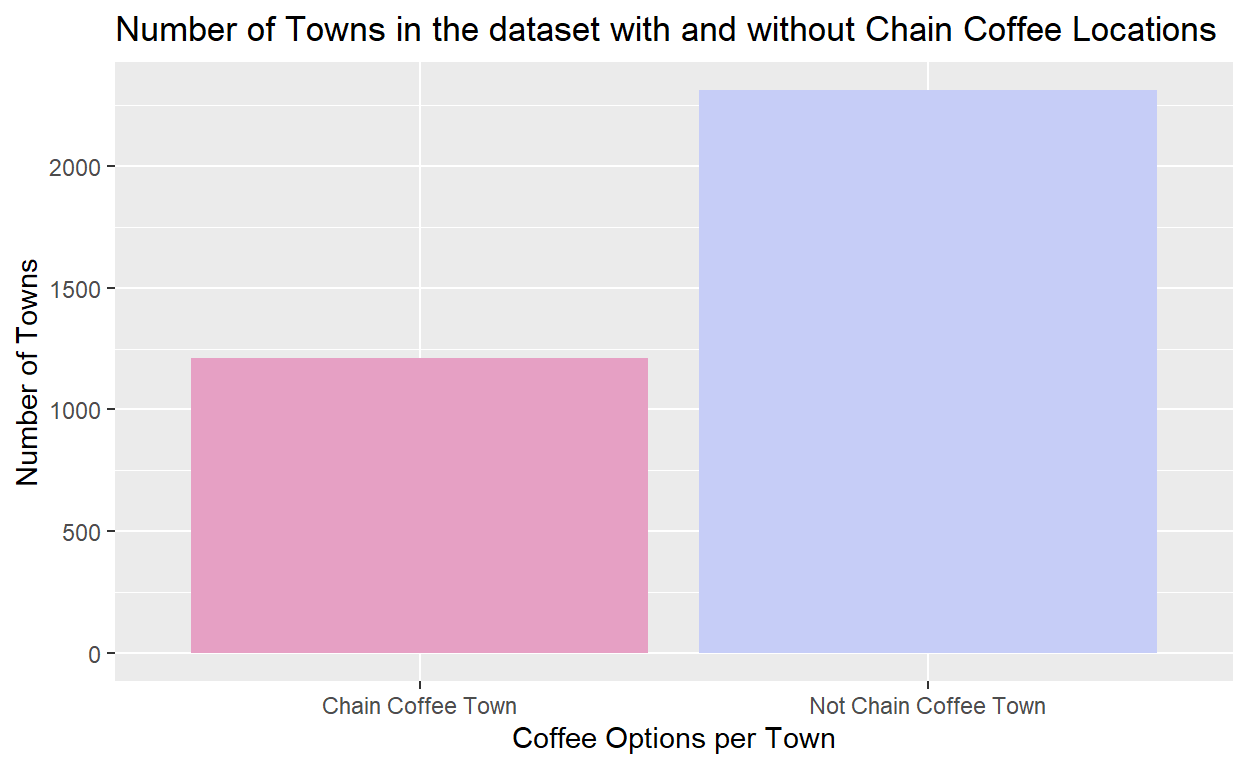
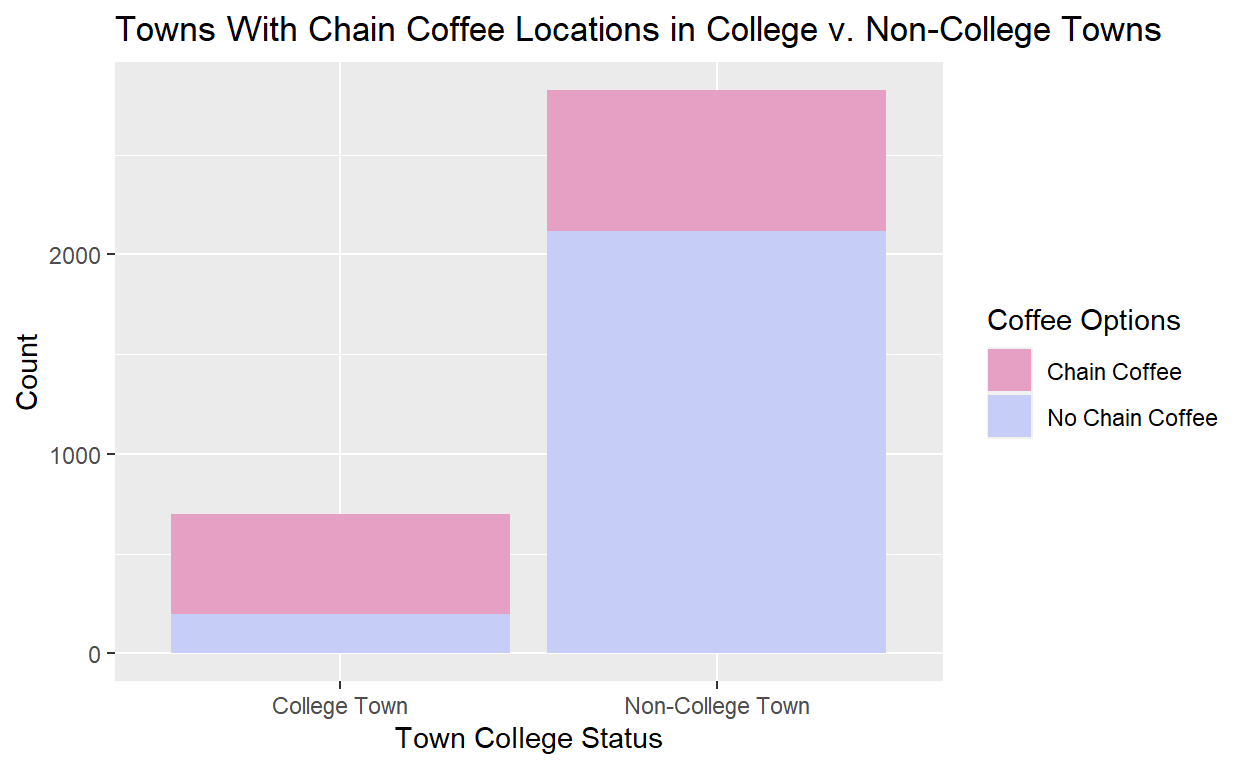
A rough final version

diff --git a/index.html b/index.html
@@ -115,7 +115,7 @@ code span.wa { color: #5e5e5e; font-style: italic; } /* Warning */
   <!--/radix_placeholder_rmarkdown_metadata-->
   
   <script type="text/json" id="radix-resource-manifest">
-  {"type":"character","attributes":{},"value":["index_files/anchor-4.2.2/anchor.min.js","index_files/bowser-1.9.3/bowser.min.js","index_files/distill-2.2.21/template.v2.js","index_files/figure-html5/main variable summary graph-1.png","index_files/figure-html5/unnamed-chunk-11-1.png","index_files/figure-html5/unnamed-chunk-3-1.png","index_files/figure-html5/unnamed-chunk-4-1.png","index_files/figure-html5/unnamed-chunk-5-1.png","index_files/figure-html5/unnamed-chunk-7-1.png","index_files/figure-html5/unnamed-chunk-7-2.png","index_files/figure-html5/unnamed-chunk-8-1.png","index_files/figure-html5/unnamed-chunk-9-1.png","index_files/header-attrs-2.16/header-attrs.js","index_files/header-attrs-2.17/header-attrs.js","index_files/jquery-3.6.0/jquery-3.6.0.js","index_files/jquery-3.6.0/jquery-3.6.0.min.js","index_files/jquery-3.6.0/jquery-3.6.0.min.map","index_files/kePrint-0.0.1/kePrint.js","index_files/lightable-0.0.1/lightable.css","index_files/popper-2.6.0/popper.min.js","index_files/tippy-6.2.7/tippy-bundle.umd.min.js","index_files/tippy-6.2.7/tippy-light-border.css","index_files/tippy-6.2.7/tippy.css","index_files/tippy-6.2.7/tippy.umd.min.js","index_files/webcomponents-2.0.0/webcomponents.js"]}
+  {"type":"character","attributes":{},"value":["index_files/anchor-4.2.2/anchor.min.js","index_files/bowser-1.9.3/bowser.min.js","index_files/distill-2.2.21/template.v2.js","index_files/figure-html5/main variable summary graph-1.png","index_files/figure-html5/summary graph-1.png","index_files/figure-html5/unnamed-chunk-11-1.png","index_files/figure-html5/unnamed-chunk-3-1.png","index_files/figure-html5/unnamed-chunk-4-1.png","index_files/figure-html5/unnamed-chunk-5-1.png","index_files/figure-html5/unnamed-chunk-7-1.png","index_files/figure-html5/unnamed-chunk-7-2.png","index_files/figure-html5/unnamed-chunk-8-1.png","index_files/figure-html5/unnamed-chunk-9-1.png","index_files/header-attrs-2.16/header-attrs.js","index_files/header-attrs-2.17/header-attrs.js","index_files/jquery-3.6.0/jquery-3.6.0.js","index_files/jquery-3.6.0/jquery-3.6.0.min.js","index_files/jquery-3.6.0/jquery-3.6.0.min.map","index_files/kePrint-0.0.1/kePrint.js","index_files/lightable-0.0.1/lightable.css","index_files/popper-2.6.0/popper.min.js","index_files/tippy-6.2.7/tippy-bundle.umd.min.js","index_files/tippy-6.2.7/tippy-light-border.css","index_files/tippy-6.2.7/tippy.css","index_files/tippy-6.2.7/tippy.umd.min.js","index_files/webcomponents-2.0.0/webcomponents.js"]}
   </script>
   <!--radix_placeholder_navigation_in_header-->
   <!--/radix_placeholder_navigation_in_header-->
@@ -1520,11 +1520,11 @@ code span.wa { color: #5e5e5e; font-style: italic; } /* Warning */
 
 <div class="d-article">
 <h2 id="introduction">Introduction</h2>
-<p>Coming to Cambridge this fall, I had lots of things on my mind. Class choices, new roommates, new friends, and (perhaps more importantly) coffee. As I learned soon after arriving, coffee is not hard to find in Cambridge. This project is an effort to explore where coffee locations are located in the United States and why. After exploring my data with more depth, I realized that it would be ineffective and misleading to attempt to analyze all coffee shops based on the provided data. As a result, this project focuses on the chain coffee franchises Dunkin’ Donuts and Starbucks. My primary research question was inspired by the sheer prevalence of coffee in Cambridge and asks: is there a correlation between these chain coffee locations and whether or not the city it is located in is a college town?</p>
+<p>Coming to Cambridge this fall, I had lots of things on my mind. Class choices, new roommates, new friends, and (perhaps more importantly) coffee. As I learned soon after arriving, coffee is not hard to find in Cambridge. This project is an effort to explore where coffee locations are located in the United States and why. After exploring my data with more depth, I realized that it would be ineffective and misleading to attempt to analyze all coffee shops based on the provided data. As a result, this project focuses on the chain coffee franchises Dunkin’ Donuts and Starbucks. My primary research question was inspired by the sheer prevalence of coffee in Cambridge and asks: is there a relationship between these chain coffee locations and whether or not the city it is located in is a college town? My hypothesis is that there is a relationship between college towns and chain coffee locations. The null hypothesis would be that there is no relationship and that the variables are independent of each other.</p>
 <h2 id="the-data">The Data</h2>
-<p>My original data was taken from Friendly Cities on GitHub and includes 800,000 restaurants throughout the United States. The dataset included the variables: RestaurantName, Cuisine, OpenHours, State, CNTY_GEOID, UA_NAME, MSA_NAME, MSA_GEOID, Lon, Lat, Frequency, and isChain. This dataset was originally used to find correlation between chain restaurants and a number of independent variables, so this project goes in another direction. The primary variables I focused on included RestaurantName, which provided the name of the restaurant, UA_NAME, which is short for Urban Area name and was typically formatted as the city and state where the restaurant was located, and lastly the State variable, which provided the state abbreviation for the state the restaurant was located in.</p>
-<p>As the dataset originally stood, I did not have enough data to explore my research question. I created a new tibble labeled college_towns which includes the name of every town in the United States that has a four-year higher education institution located within it. This tibble was compiled using information provided on Campus Explorer and then used to create the variable college_town within the dataset; a 1 marks that the town has a four year higher education institution and a 0 if else. I also created my dependent variable by creating a unique ID per city, which I used to create the variable is_coffee in my data. The column is marked with a 1 if the town has a chain and a 0 if not.</p>
-<p>The rest of my variables were created as possible confounders that could provide alternative reasoning. The next two variables I added to the dataset were based on location and are called region and division. These variables were created in reference to the regions and divisions assigned to states by the United States Census Bureau. My final variable is called is_pop and marks whether or not a city was in the top 5 most populated cities within it’s respective state (1 if yes, 0 if no). This variable was created with Census Bureau data, specifically the April 2021 population estimate.</p>
+<p>My original data was taken from Friendly Cities on GitHub and includes over 700,000 restaurants throughout the United States. The dataset included the variables: RestaurantName, Cuisine, OpenHours, State, CNTY_GEOID, UA_NAME, MSA_NAME, MSA_GEOID, Lon, Lat, Frequency, and isChain. This dataset was originally used to find correlation between chain restaurants and a number of independent variables, so this project goes in another direction. The primary variables I focused on included RestaurantName, which provided the name of the restaurant, UA_NAME, which is short for Urban Area name and was typically formatted as the city and state where the restaurant was located, and lastly the State variable, which provided the state abbreviation for the state the restaurant was located in.</p>
+<p>As the dataset originally stood, I did not have enough data to explore my research question. I created a new tibble labeled college_towns which includes the name of every town in the United States that has a four-year higher education institution located within it. This tibble was compiled using information provided on Campus Explorer and then used to create the variable college_town within the dataset; a 1 marks that the town has a four year higher education institution and a 0 if else. I also created my dependent variable by creating a unique ID per city, which I used to create the variable is_coffee in my data. The column is marked with a 1 if the town has a Dunkin’ Donuts or Starbucks and a 0 if not.</p>
+<p>The rest of my variables were created as possible confounders that could provide alternative reasoning for any relationship found between college towns and chain coffee locations. The next two variables I added to the dataset were based on location and are called region and division. These variables were created in reference to the regions and divisions assigned to states by the United States Census Bureau. My final variable is called is_pop and marks whether or not a city was in the top 5 most populated cities within it’s respective state (1 if yes, 0 if no). This variable was created with Census Bureau data, specifically the April 2021 population estimate.</p>
 <p>The dependent variable in my study is whether or not a town has a chain coffee location, in this study referring to a Dunkin’ Donuts or a Starbucks. My study is cross-sectional, as the data is observational, meaning that I did not assign the value for college_town, which is my primary variable of interest. Additionally, my data was collected at a single point in time and thus does not fill the criteria for a before-after or differences in differences study.</p>
 <div class="layout-chunk" data-layout="l-body">
 <div class="sourceCode">
@@ -1605,44 +1605,29 @@ code span.wa { color: #5e5e5e; font-style: italic; } /* Warning */
 <div class="layout-chunk" data-layout="l-body">
 <div class="sourceCode">
 <pre class="sourceCode r"><code class="sourceCode r"><span><span class='va'>data3</span> <span class='op'>|&gt;</span></span>
-<span>  <span class='fu'><a href='https://dplyr.tidyverse.org/reference/mutate.html'>mutate</a></span><span class='op'>(</span>is_coffee_new <span class='op'>=</span> <span class='fu'><a href='https://dplyr.tidyverse.org/reference/if_else.html'>if_else</a></span><span class='op'>(</span><span class='va'>is_coffee</span> <span class='op'>==</span> <span class='fl'>1</span>, <span class='st'>"Chain Coffee Town"</span>, <span class='st'>"Not Chain Coffee Town"</span><span class='op'>)</span><span class='op'>)</span> <span class='op'>|&gt;</span></span>
+<span>  <span class='fu'><a href='https://dplyr.tidyverse.org/reference/mutate.html'>mutate</a></span><span class='op'>(</span>is_coffee_new <span class='op'>=</span> <span class='fu'><a href='https://dplyr.tidyverse.org/reference/if_else.html'>if_else</a></span><span class='op'>(</span><span class='va'>is_coffee</span> <span class='op'>==</span> <span class='fl'>1</span>, <span class='st'>"With Chain Coffee"</span>, <span class='st'>"Without Chain Coffee"</span><span class='op'>)</span><span class='op'>)</span> <span class='op'>|&gt;</span></span>
 <span>  <span class='fu'><a href='https://ggplot2.tidyverse.org/reference/ggplot.html'>ggplot</a></span><span class='op'>(</span><span class='fu'><a href='https://ggplot2.tidyverse.org/reference/aes.html'>aes</a></span><span class='op'>(</span>x <span class='op'>=</span> <span class='va'>is_coffee_new</span>, fill <span class='op'>=</span> <span class='va'>is_coffee_new</span><span class='op'>)</span><span class='op'>)</span> <span class='op'>+</span></span>
 <span>  <span class='fu'><a href='https://ggplot2.tidyverse.org/reference/geom_bar.html'>geom_bar</a></span><span class='op'>(</span><span class='op'>)</span> <span class='op'>+</span></span>
 <span>  <span class='fu'><a href='https://ggplot2.tidyverse.org/reference/scale_manual.html'>scale_fill_manual</a></span><span class='op'>(</span>values <span class='op'>=</span> <span class='fu'><a href='https://rdrr.io/pkg/wesanderson/man/wes_palette.html'>wes_palette</a></span><span class='op'>(</span><span class='st'>"GrandBudapest2"</span>, n <span class='op'>=</span> <span class='fl'>2</span><span class='op'>)</span><span class='op'>)</span> <span class='op'>+</span></span>
-<span>  <span class='fu'><a href='https://ggplot2.tidyverse.org/reference/labs.html'>labs</a></span><span class='op'>(</span>x <span class='op'>=</span> <span class='st'>"Coffee Options per Town"</span>, y <span class='op'>=</span> <span class='st'>"Number of Towns"</span>, title <span class='op'>=</span> <span class='st'>"Number of Towns in the dataset with and without Chain Coffee Locations"</span><span class='op'>)</span> <span class='op'>+</span></span>
+<span>  <span class='fu'><a href='https://ggplot2.tidyverse.org/reference/labs.html'>labs</a></span><span class='op'>(</span>x <span class='op'>=</span> <span class='st'>"Coffee Options"</span>, y <span class='op'>=</span> <span class='st'>"Number of Towns"</span>, title <span class='op'>=</span> <span class='st'>"Number of Towns With and Without Chain Coffee Locations"</span><span class='op'>)</span> <span class='op'>+</span></span>
 <span>  <span class='fu'><a href='https://ggplot2.tidyverse.org/reference/theme.html'>theme</a></span><span class='op'>(</span>legend.position <span class='op'>=</span> <span class='st'>"none"</span><span class='op'>)</span></span></code></pre>
 </div>
-<p><img src="index_files/figure-html5/unnamed-chunk-3-1.png" width="624" /></p>
+<p><img src="index_files/figure-html5/summary%20graph-1.png" width="624" /></p>
 </div>
-<p>My dependent variable for this project is whether or not a town has a chain coffee location which in this project is defined as either a Dunkin’ Donuts or a Starbucks. I will further discuss the reasoning for this in my conclusion. As can be seen in the graph above, the dataset includes restaurant data from over 3,000 cities throughout the United States. We can see that there are more cities in the data without chain coffee locations than with them.</p>
+<p>My dependent variable for this project is whether or not a town has a chain coffee location which in this project is defined as either a Dunkin’ Donuts or a Starbucks. As can be seen in the graph above, the dataset includes restaurant data from over 3,000 cities throughout the United States. We can see that there are more cities in the data without chain coffee locations than with them.</p>
 <h2 id="results">Results</h2>
 <h1 id="main-variable-regression">Main Variable Regression</h1>
 <p>My primary independent variable of interest was the college town variable. The following regression table displays the details for a regression equation involving only that variable.</p>
 <div class="layout-chunk" data-layout="l-body">
 <div class="sourceCode">
 <pre class="sourceCode r"><code class="sourceCode r"><span><span class='va'>singregression</span> <span class='op'>&lt;-</span> <span class='fu'><a href='https://rdrr.io/r/stats/lm.html'>lm</a></span><span class='op'>(</span><span class='va'>is_coffee</span> <span class='op'>~</span> <span class='va'>college_town</span>, data <span class='op'>=</span> <span class='va'>data3</span><span class='op'>)</span></span>
-<span><span class='fu'><a href='https://rdrr.io/r/base/summary.html'>summary</a></span><span class='op'>(</span><span class='va'>singregression</span><span class='op'>)</span></span></code></pre>
-</div>
-<pre><code>
-Call:
-lm(formula = is_coffee ~ college_town, data = data3)
-
-Residuals:
-    Min      1Q  Median      3Q     Max 
--0.7200 -0.2511 -0.2511  0.2800  0.7489 
-
-Coefficients:
-             Estimate Std. Error t value Pr(&gt;|t|)    
-(Intercept)   0.25106    0.00822   30.54   &lt;2e-16 ***
-college_town  0.46894    0.01844   25.42   &lt;2e-16 ***
----
-Signif. codes:  0 &#39;***&#39; 0.001 &#39;**&#39; 0.01 &#39;*&#39; 0.05 &#39;.&#39; 0.1 &#39; &#39; 1
-
-Residual standard error: 0.4368 on 3522 degrees of freedom
-Multiple R-squared:  0.1551,    Adjusted R-squared:  0.1548 
-F-statistic: 646.4 on 1 and 3522 DF,  p-value: &lt; 2.2e-16</code></pre>
-<div class="sourceCode">
-<pre class="sourceCode r"><code class="sourceCode r"><span><span class='fu'>modelsummary</span><span class='fu'>::</span><span class='fu'><a href='https://vincentarelbundock.github.io/modelsummary/reference/modelsummary.html'>modelsummary</a></span><span class='op'>(</span><span class='va'>singregression</span>, statistic <span class='op'>=</span> <span class='st'>"p.value"</span><span class='op'>)</span></span></code></pre>
+<span></span>
+<span><span class='va'>varnames1</span> <span class='op'>&lt;-</span> <span class='fu'><a href='https://rdrr.io/r/base/c.html'>c</a></span><span class='op'>(</span><span class='st'>"(Intercept)"</span> <span class='op'>=</span> <span class='st'>"Intercept"</span>,</span>
+<span>               <span class='st'>"college_town"</span> <span class='op'>=</span> <span class='st'>"College Town Variable"</span><span class='op'>)</span></span>
+<span></span>
+<span><span class='fu'>modelsummary</span><span class='fu'>::</span><span class='fu'><a href='https://vincentarelbundock.github.io/modelsummary/reference/modelsummary.html'>modelsummary</a></span><span class='op'>(</span><span class='va'>singregression</span>, statistic <span class='op'>=</span> <span class='st'>"p.value"</span>, </span>
+<span>                           gof_map <span class='op'>=</span> <span class='fu'><a href='https://rdrr.io/r/base/c.html'>c</a></span><span class='op'>(</span><span class='st'>"nobs"</span>, <span class='st'>"r.squared"</span>, <span class='st'>"adj.r.squared"</span><span class='op'>)</span>,</span>
+<span>                           coef_map <span class='op'>=</span> <span class='va'>varnames1</span><span class='op'>)</span></span></code></pre>
 </div>
 <table class="table" style="width: auto !important; margin-left: auto; margin-right: auto;">
 <thead>
@@ -1657,7 +1642,7 @@ Model 1
 <tbody>
 <tr>
 <td style="text-align:left;">
-(Intercept)
+Intercept
 </td>
 <td style="text-align:center;">
 0.251
@@ -1672,7 +1657,7 @@ Model 1
 </tr>
 <tr>
 <td style="text-align:left;">
-college_town
+College Town Variable
 </td>
 <td style="text-align:center;">
 0.469
@@ -1709,49 +1694,26 @@ R2 Adj.
 0.155
 </td>
 </tr>
-<tr>
-<td style="text-align:left;">
-AIC
-</td>
-<td style="text-align:center;">
-4167.7
-</td>
-</tr>
-<tr>
-<td style="text-align:left;">
-BIC
-</td>
-<td style="text-align:center;">
-4186.2
-</td>
-</tr>
-<tr>
-<td style="text-align:left;">
-Log.Lik.
-</td>
-<td style="text-align:center;">
-−2080.847
-</td>
-</tr>
-<tr>
-<td style="text-align:left;">
-RMSE
-</td>
-<td style="text-align:center;">
-0.44
-</td>
-</tr>
 </tbody>
 </table>
 </div>
-<p>As can be seen in the table above the intercept of the line is 0.251, meaning that approximately 25.1% of towns contain one of the chain coffee locations. The number associated with college_town is 0.469, which also represents the slope. This can be interpreted to mean that for college towns, there is a 46.9% increase in the number of towns that have a chain coffee location. This number has a p-value of 0.018, which is statistically significant with an alpha of 0.05.</p>
+<p>As can be seen in the table above the intercept of the line is 0.251, meaning that, in non-college towns, approximately 25.1% of towns contain a chain coffee location. The coefficient associated with college_town is 0.469, which also represents the slope. This can be interpreted to mean that for college towns, there is a 46.9% increase in the number of towns that have a chain coffee location. This number has a p-value of less than 0.001, which is statistically significant with an alpha of 0.05.</p>
 <h1 id="multiple-regression">Multiple Regression</h1>
 <p>In order to determine a few possible confounders, I also examined my other independent variables including region and population.</p>
 <div class="layout-chunk" data-layout="l-body">
 <div class="sourceCode">
 <pre class="sourceCode r"><code class="sourceCode r"><span><span class='va'>multiregression</span> <span class='op'>&lt;-</span> <span class='fu'><a href='https://rdrr.io/r/stats/lm.html'>lm</a></span><span class='op'>(</span><span class='va'>is_coffee</span> <span class='op'>~</span> <span class='va'>region</span> <span class='op'>+</span>  <span class='va'>is_pop</span> <span class='op'>+</span> <span class='va'>college_town</span>, data <span class='op'>=</span> <span class='va'>data3</span><span class='op'>)</span></span>
 <span></span>
-<span><span class='fu'>modelsummary</span><span class='fu'>::</span><span class='fu'><a href='https://vincentarelbundock.github.io/modelsummary/reference/modelsummary.html'>modelsummary</a></span><span class='op'>(</span><span class='va'>multiregression</span>, statistic <span class='op'>=</span> <span class='st'>"p.value"</span><span class='op'>)</span></span></code></pre>
+<span><span class='va'>varnames2</span> <span class='op'>&lt;-</span> <span class='fu'><a href='https://rdrr.io/r/base/c.html'>c</a></span><span class='op'>(</span><span class='st'>"(Intercept)"</span> <span class='op'>=</span> <span class='st'>"Intercept"</span>,</span>
+<span>               <span class='st'>"regionNortheast"</span> <span class='op'>=</span> <span class='st'>"Northeast Region"</span>,</span>
+<span>               <span class='st'>"regionSouth"</span> <span class='op'>=</span> <span class='st'>"Southern Region"</span>,</span>
+<span>               <span class='st'>"regionWest"</span> <span class='op'>=</span> <span class='st'>"Western Region"</span>,</span>
+<span>               <span class='st'>"is_popYes"</span> <span class='op'>=</span> <span class='st'>"Top 5 Population in State"</span>,</span>
+<span>               <span class='st'>"college_town"</span> <span class='op'>=</span> <span class='st'>"College Town"</span><span class='op'>)</span></span>
+<span></span>
+<span><span class='fu'>modelsummary</span><span class='fu'>::</span><span class='fu'><a href='https://vincentarelbundock.github.io/modelsummary/reference/modelsummary.html'>modelsummary</a></span><span class='op'>(</span><span class='va'>multiregression</span>, statistic <span class='op'>=</span> <span class='st'>"p.value"</span>,</span>
+<span>                           gof_map <span class='op'>=</span> <span class='fu'><a href='https://rdrr.io/r/base/c.html'>c</a></span><span class='op'>(</span><span class='st'>"nobs"</span>, <span class='st'>"r.squared"</span>, <span class='st'>"adj.r.squared"</span><span class='op'>)</span>,</span>
+<span>                           coef_map <span class='op'>=</span> <span class='va'>varnames2</span><span class='op'>)</span></span></code></pre>
 </div>
 <table class="table" style="width: auto !important; margin-left: auto; margin-right: auto;">
 <thead>
@@ -1766,7 +1728,7 @@ Model 1
 <tbody>
 <tr>
 <td style="text-align:left;">
-(Intercept)
+Intercept
 </td>
 <td style="text-align:center;">
 0.144
@@ -1781,7 +1743,7 @@ Model 1
 </tr>
 <tr>
 <td style="text-align:left;">
-regionNortheast
+Northeast Region
 </td>
 <td style="text-align:center;">
 0.377
@@ -1796,7 +1758,7 @@ regionNortheast
 </tr>
 <tr>
 <td style="text-align:left;">
-regionSouth
+Southern Region
 </td>
 <td style="text-align:center;">
 0.062
@@ -1811,7 +1773,7 @@ regionSouth
 </tr>
 <tr>
 <td style="text-align:left;">
-regionWest
+Western Region
 </td>
 <td style="text-align:center;">
 0.216
@@ -1826,7 +1788,7 @@ regionWest
 </tr>
 <tr>
 <td style="text-align:left;">
-is_popYes
+Top 5 Population in State
 </td>
 <td style="text-align:center;">
 0.311
@@ -1841,7 +1803,7 @@ is_popYes
 </tr>
 <tr>
 <td style="text-align:left;">
-college_town
+College Town
 </td>
 <td style="text-align:center;">
 0.400
@@ -1878,47 +1840,16 @@ R2 Adj.
 0.237
 </td>
 </tr>
-<tr>
-<td style="text-align:left;">
-AIC
-</td>
-<td style="text-align:center;">
-3812.2
-</td>
-</tr>
-<tr>
-<td style="text-align:left;">
-BIC
-</td>
-<td style="text-align:center;">
-3855.3
-</td>
-</tr>
-<tr>
-<td style="text-align:left;">
-Log.Lik.
-</td>
-<td style="text-align:center;">
-−1899.085
-</td>
-</tr>
-<tr>
-<td style="text-align:left;">
-RMSE
-</td>
-<td style="text-align:center;">
-0.41
-</td>
-</tr>
 </tbody>
 </table>
 </div>
 <p>In the table above, the intercept is 0.144, which implies that when all variables are 0 (in this case, the town is not a college town and is not one of the top 5 in it’s state based on population), 14.4% of towns have a chain coffee location. Within the region variables, the Northeast variable has the largest effect with 0.377, meaning that when the town is in the Northeast states there is a 37.7% increase in towns that have chain coffee locations, holding all else equal. The population variable has a coefficient of 0.311, which indicates that when a town is in the top 5 of it’s state for population there is an average increase in towns with chain coffee locations of 31.1%, holding all else equal. Finally, the college town variable has a coefficient of 0.400, which implies that when a town is a college town, there is an average increase of 40% in the number of towns that have a chain coffee location, holding all other variable equal. This number is lower than the initial 46.9% shown in the previous table, which implies that some of the correlation might have actually been due to one of the variables in this regression. All of the coefficients in this table have very small p-values, below the aplha level of 0.05, which implies statistical significance.</p>
 <h1 id="summary-graph">Summary Graph</h1>
+<p>The following is a bar graph displaying the relationship between chain coffee locations and my main variable of interest, whether or not the town has a college.</p>
 <div class="layout-chunk" data-layout="l-body">
 <div class="sourceCode">
 <pre class="sourceCode r"><code class="sourceCode r"><span><span class='va'>data3</span> <span class='op'>|&gt;</span></span>
-<span>  <span class='fu'><a href='https://dplyr.tidyverse.org/reference/mutate.html'>mutate</a></span><span class='op'>(</span>college_town_new <span class='op'>=</span> <span class='fu'><a href='https://dplyr.tidyverse.org/reference/if_else.html'>if_else</a></span><span class='op'>(</span><span class='va'>college_town</span> <span class='op'>==</span> <span class='fl'>1</span>, <span class='st'>"College Town"</span>, <span class='st'>"Not College Town"</span><span class='op'>)</span>,</span>
+<span>  <span class='fu'><a href='https://dplyr.tidyverse.org/reference/mutate.html'>mutate</a></span><span class='op'>(</span>college_town_new <span class='op'>=</span> <span class='fu'><a href='https://dplyr.tidyverse.org/reference/if_else.html'>if_else</a></span><span class='op'>(</span><span class='va'>college_town</span> <span class='op'>==</span> <span class='fl'>1</span>, <span class='st'>"College Town"</span>, <span class='st'>"Non-College Town"</span><span class='op'>)</span>,</span>
 <span>         `Coffee Options` <span class='op'>=</span> <span class='fu'><a href='https://dplyr.tidyverse.org/reference/if_else.html'>if_else</a></span><span class='op'>(</span><span class='va'>is_coffee</span> <span class='op'>==</span> <span class='fl'>1</span>, <span class='st'>"Chain Coffee"</span>, <span class='st'>"No Chain Coffee"</span><span class='op'>)</span><span class='op'>)</span> <span class='op'>|&gt;</span></span>
 <span>  <span class='fu'><a href='https://ggplot2.tidyverse.org/reference/ggplot.html'>ggplot</a></span><span class='op'>(</span><span class='fu'><a href='https://ggplot2.tidyverse.org/reference/aes.html'>aes</a></span><span class='op'>(</span>x <span class='op'>=</span> <span class='va'>college_town_new</span>, fill <span class='op'>=</span> <span class='va'>`Coffee Options`</span><span class='op'>)</span><span class='op'>)</span> <span class='op'>+</span></span>
 <span>  <span class='fu'><a href='https://ggplot2.tidyverse.org/reference/geom_bar.html'>geom_bar</a></span><span class='op'>(</span>position <span class='op'>=</span> <span class='st'>"dodge"</span><span class='op'>)</span> <span class='op'>+</span></span>
@@ -1927,19 +1858,28 @@ RMSE
 </div>
 <p><img src="index_files/figure-html5/main%20variable%20summary%20graph-1.png" width="624" /></p>
 </div>
+<p>As can be seen in the graph above, despite the apparent relationship between college towns and chain coffee locations, there are still more chain coffee locations in non-college towns. However, we can also see that there is a massive difference in proportions. For college towns, it appears that there are over double the amount of towns with chain coffee as opposed to without. On the other hand, when we look at noon-college towns, the vast majority do not have chain coffee locations. We could estimate that nearly three quarters of towns without colleges do not have a chain coffee location. When analyzing this graph, it is also important to remember that, within the dataset, there are a lot more non-college towns. The following version of the graph makes it a little easier to see the proportions.</p>
 <div class="layout-chunk" data-layout="l-body">
 <div class="sourceCode">
 <pre class="sourceCode r"><code class="sourceCode r"><span><span class='va'>data3</span> <span class='op'>|&gt;</span></span>
-<span>  <span class='fu'><a href='https://dplyr.tidyverse.org/reference/mutate.html'>mutate</a></span><span class='op'>(</span>is_coffee_new <span class='op'>=</span> <span class='fu'><a href='https://dplyr.tidyverse.org/reference/if_else.html'>if_else</a></span><span class='op'>(</span><span class='va'>is_coffee</span> <span class='op'>==</span> <span class='fl'>1</span>, <span class='st'>"Chain Coffee"</span>, <span class='st'>"No Chain Coffee"</span><span class='op'>)</span><span class='op'>)</span> <span class='op'>|&gt;</span></span>
-<span>  <span class='fu'><a href='https://dplyr.tidyverse.org/reference/rename.html'>rename</a></span><span class='op'>(</span>Region <span class='op'>=</span> <span class='va'>region</span><span class='op'>)</span> <span class='op'>|&gt;</span></span>
-<span>  <span class='fu'><a href='https://ggplot2.tidyverse.org/reference/ggplot.html'>ggplot</a></span><span class='op'>(</span>mapping <span class='op'>=</span> <span class='fu'><a href='https://ggplot2.tidyverse.org/reference/aes.html'>aes</a></span><span class='op'>(</span>x <span class='op'>=</span> <span class='va'>is_coffee_new</span>, fill <span class='op'>=</span> <span class='va'>Region</span><span class='op'>)</span><span class='op'>)</span> <span class='op'>+</span></span>
-<span>  <span class='fu'><a href='https://ggplot2.tidyverse.org/reference/geom_bar.html'>geom_bar</a></span><span class='op'>(</span>position <span class='op'>=</span> <span class='st'>"dodge"</span><span class='op'>)</span> <span class='op'>+</span></span>
-<span>  <span class='fu'><a href='https://ggplot2.tidyverse.org/reference/labs.html'>labs</a></span><span class='op'>(</span>title <span class='op'>=</span> <span class='st'>"Distribution of Towns with Chain Coffee in the United States"</span>, x <span class='op'>=</span> <span class='st'>"Coffee Status in Town"</span>, y <span class='op'>=</span> <span class='st'>"Count"</span><span class='op'>)</span> <span class='op'>+</span></span>
-<span>  <span class='fu'><a href='https://ggplot2.tidyverse.org/reference/scale_manual.html'>scale_fill_manual</a></span><span class='op'>(</span>values <span class='op'>=</span> <span class='fu'><a href='https://rdrr.io/pkg/wesanderson/man/wes_palette.html'>wes_palette</a></span><span class='op'>(</span><span class='st'>"GrandBudapest2"</span>, n <span class='op'>=</span> <span class='fl'>4</span><span class='op'>)</span><span class='op'>)</span></span></code></pre>
+<span>  <span class='fu'><a href='https://dplyr.tidyverse.org/reference/mutate.html'>mutate</a></span><span class='op'>(</span>college_town_new <span class='op'>=</span> <span class='fu'><a href='https://dplyr.tidyverse.org/reference/if_else.html'>if_else</a></span><span class='op'>(</span><span class='va'>college_town</span> <span class='op'>==</span> <span class='fl'>1</span>, <span class='st'>"College Town"</span>, <span class='st'>"Non-College Town"</span><span class='op'>)</span>,</span>
+<span>         `Coffee Options` <span class='op'>=</span> <span class='fu'><a href='https://dplyr.tidyverse.org/reference/if_else.html'>if_else</a></span><span class='op'>(</span><span class='va'>is_coffee</span> <span class='op'>==</span> <span class='fl'>1</span>, <span class='st'>"Chain Coffee"</span>, <span class='st'>"No Chain Coffee"</span><span class='op'>)</span><span class='op'>)</span> <span class='op'>|&gt;</span></span>
+<span>  <span class='fu'><a href='https://ggplot2.tidyverse.org/reference/ggplot.html'>ggplot</a></span><span class='op'>(</span><span class='fu'><a href='https://ggplot2.tidyverse.org/reference/aes.html'>aes</a></span><span class='op'>(</span>x <span class='op'>=</span> <span class='va'>college_town_new</span>, fill <span class='op'>=</span> <span class='va'>`Coffee Options`</span><span class='op'>)</span><span class='op'>)</span> <span class='op'>+</span></span>
+<span>  <span class='fu'><a href='https://ggplot2.tidyverse.org/reference/geom_bar.html'>geom_bar</a></span><span class='op'>(</span><span class='op'>)</span> <span class='op'>+</span></span>
+<span>  <span class='fu'><a href='https://ggplot2.tidyverse.org/reference/labs.html'>labs</a></span><span class='op'>(</span>x <span class='op'>=</span> <span class='st'>"Town College Status"</span>, y <span class='op'>=</span> <span class='st'>"Count"</span>, title <span class='op'>=</span> <span class='st'>"Towns With Chain Coffee Locations in College v. Non-College Towns"</span><span class='op'>)</span> <span class='op'>+</span></span>
+<span>  <span class='fu'><a href='https://ggplot2.tidyverse.org/reference/scale_manual.html'>scale_fill_manual</a></span><span class='op'>(</span>values <span class='op'>=</span> <span class='fu'><a href='https://rdrr.io/pkg/wesanderson/man/wes_palette.html'>wes_palette</a></span><span class='op'>(</span><span class='st'>"GrandBudapest2"</span>, n <span class='op'>=</span> <span class='fl'>2</span><span class='op'>)</span><span class='op'>)</span></span></code></pre>
 </div>
-<p><img src="index_files/figure-html5/unnamed-chunk-4-1.png" width="624" /></p>
+<p><img src="index_files/figure-html5/unnamed-chunk-3-1.png" width="624" /></p>
 </div>
-<div class="sourceCode" id="cb2"><pre class="sourceCode r distill-force-highlighting-css"><code class="sourceCode r"></code></pre></div>
+<h2 id="conclusion">Conclusion</h2>
+<p>To conclude, there does appear to be a relationship between college towns and chain coffee locations. The coefficients for this variable in both regressions that were run were not equal to 0 and were the best predictor within each regression. These results support my hypothesis that there is a relationship between college towns and chain coffee locations. More specifically, there is a mildly strong positive relationship. There are some limitations to this study. First, the data does not include every chain coffee location. While nearly every Dunkin’ Donuts is represented in the data, Starbucks data was much less represented including only about half of locations. Additionally, other small chain location such as Caribou Coffee or Tim Horton’s were not well represented within the data and thus could not be effectively studied. Another limitation of this study is the limited population data. With more time, ideally it would be nice to merge the current data with a population dataset from the US Census Bureau to get exact populations for every town. Finally, in the future it would be nice to expand the study to include two-year higher education institutions in either another variable or in the college_town one.</p>
+<h2 id="works-cited">Works Cited</h2>
+<p>“City and Town Population Totals: 2020-2021”. <em>United States Census Bureau</em>, 16 May 2022, www.census.gov/data/tables/time-series/demo/popest/2020s-total-cities-and-towns.html, Accessed 6 December 2022.</p>
+<p>“Colleges by State.” <em>College Explorer</em>, Archer Education, Inc., 2022, www.campusexplorer.com/colleges/state/, Accessed 7 November 2022.</p>
+<p>“Geographic Regions”. <em>United States Census Bureau</em>, 8 October 2022, www.census.gov/programs-surveys/economic-census/guidance-geographies/levels.html#par_textimage_34, Accessed 12 December 2022.</p>
+<p>LeadsDeposit. (2021). WebMaster [Data set]. <a href="https://leadsdeposit.com/" class="uri">https://leadsdeposit.com/</a></p>
+<p>Liang, X., &amp; Andris, C. (2021). Measuring McCities: Landscapes of chain and independent restaurants in the United States. Environment and Planning B: Urban Analytics and City Science, 49(2), 585-602. <a href="https://doi.org/10.1177/23998083211014896" class="uri">https://doi.org/10.1177/23998083211014896</a></p>
+<div class="sourceCode" id="cb1"><pre class="sourceCode r distill-force-highlighting-css"><code class="sourceCode r"></code></pre></div>
 <!--radix_placeholder_article_footer-->
 <!--/radix_placeholder_article_footer-->
 </div>
